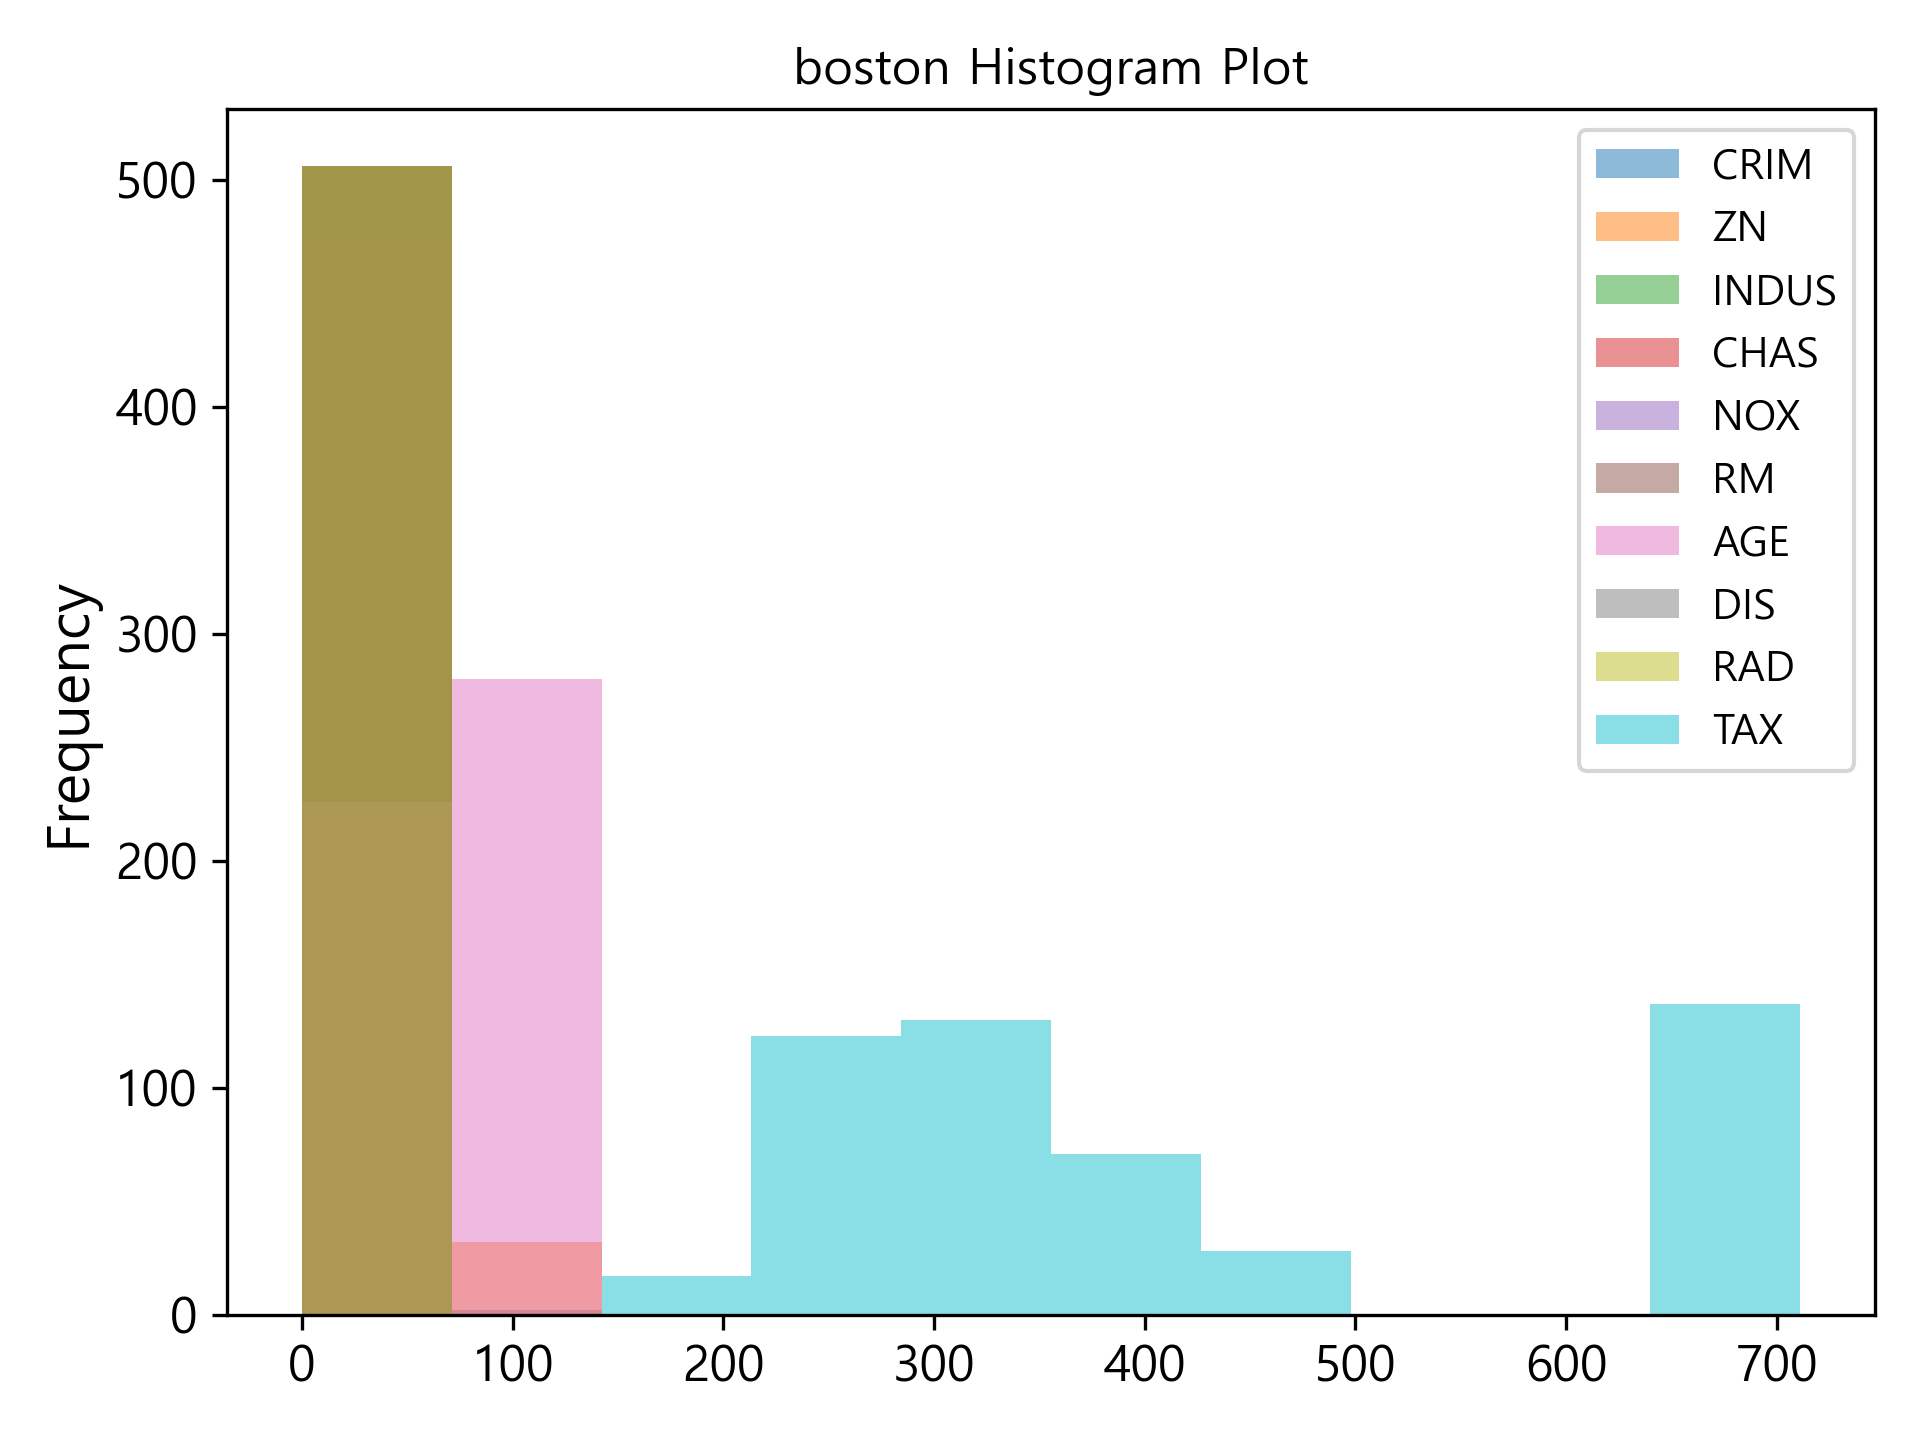
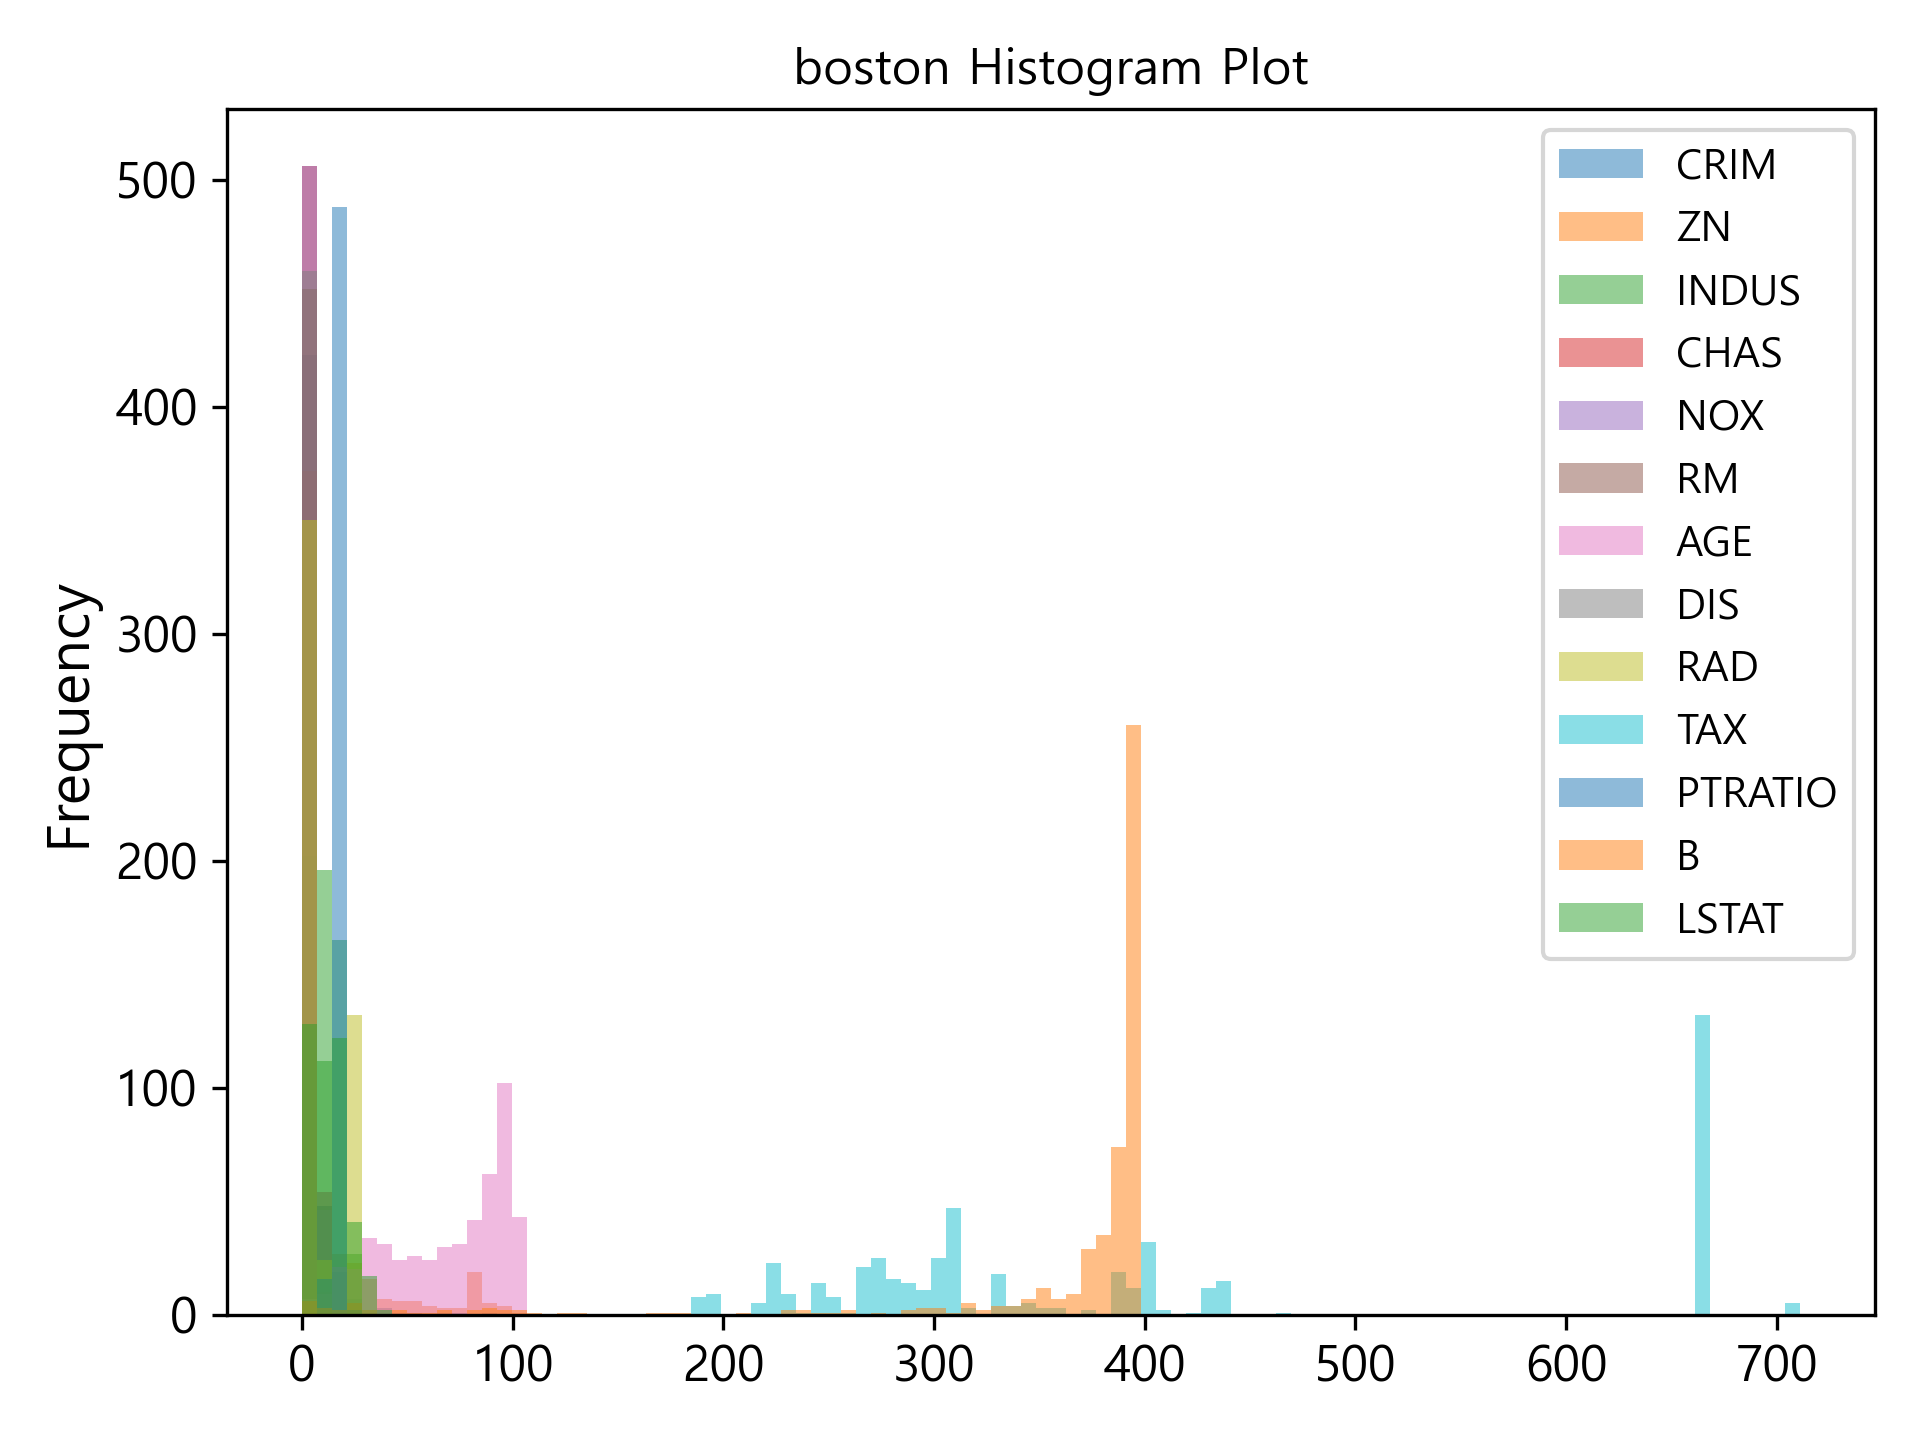
8/11 update

Changed region(s): [[0.1562, 0.0938, 0.7188, 0.9375], [0.8125, 0.0938, 0.9688, 0.6562], [0.8438, 0.6875, 0.9375, 0.9375]]

diff --git a/ch04_0.py b/ch04_0.py
@@ -17,6 +17,7 @@ print("boston.keys(): \n{}".format(boston.keys()))
 print("데이터의 형태: {}".format(boston.data.shape))
 print("특성 이름:\n{}".format(boston.feature_names))
 print(boston.data, boston.target)
+print(boston.target.mean(), boston.target.min(), np.percentile(boston.target,25), np.percentile(boston.target,75), boston.target.max())
 print(boston.data[:,:2])
 
 # 산점도 : 1개의 특성, 1개의 타겟(숫자)
@@ -30,21 +31,49 @@ plt.show()
 
 # 히스토그램 : 열의 이름은 boston.feature_names
 # 사용할 특성의 갯수을 설정
-nCase = 10
+nCase = 13
 boston_df = pd.DataFrame(boston.data[:,:nCase], columns=boston.feature_names[:nCase])
 # 데이터프레임을 사용해  특성별 Historgram
-boston_df.plot.hist(alpha=0.5)
+boston_df.plot.hist(bins=100, alpha=0.5)
 plt.title("boston Histogram Plot")
 image.save_fig("boston_Histogram")
 plt.show() 
+
+#  다른방법으로 pairplot
+import seaborn as sns
+boston_data = pd.DataFrame(boston.data, columns=boston.feature_names)
+boston_data.info()
+print("boston_data 크기: {}".format(boston_data.shape))
+print("boston_data 5개: {}".format(boston_data.head()))
+# target을 세개의 값으로 변경
+y_bin = np.array([0 if i < 17.0 else (1 if i < 25.0 else 2) for i in boston.target])
+boston_target = pd.DataFrame(y_bin, columns=['priceType'])
+boston_target.info()
+print("boston_target 크기: {}".format(boston_target.shape))
+print("boston_target 5개: {}".format(boston_target.head()))
+boston = pd.merge(boston_data, boston_target, left_index=True, right_index=True)
+print("boston 크기: {}".format(boston.shape))
+print("boston 5개: {}".format(boston.head()))
+
+# diag_kind='kde' 를 사용하여 각 변수별 커널밀도추정곡선
+# hue='species'를 사용하여 'species' 종(setosa, versicolor, virginica) 별로 색깔을 다르게 표시
+sns.pairplot(boston, 
+             diag_kind='kde',
+             hue='priceType', 
+             palette='bright') # pastel, bright, deep, muted, colorblind, dark
+image.save_fig("Boston_Scatter_by_seaborn2")     
+plt.show()
+
 
 # 특성 공학feature engineering : load_extended_boston
 # 13개의 원래 특성에 13개에서 2개씩 (중복을 포함해) 짝지은 91개의 특성을 더해 총 104개가 됩니다.
 X, y = mglearn.datasets.load_extended_boston()
 print("X.shape: {}".format(X.shape))
 print("y.shape: {}".format(y.shape))
-print(X, y)
-print(X[:, 0], y)
+print("X 타입: {}".format(type(X)))
+print("y 타입: {}".format(type(y)))
+# print(X, y)
+print(X[:, 0], X[:, 1], y)
 
 # 훈련 세트, 테스트 세트 random_state=66
 from sklearn.model_selection import train_test_split
@@ -53,18 +82,19 @@ print("X_train 크기: {}".format(X_train.shape))
 print("y_train 크기: {}".format(y_train.shape))
 print("X_test 크기: {}".format(X_test.shape))
 print("y_test 크기: {}".format(y_test.shape))
+print("X_train 타입: {}".format(type(X_train)))
+print("y_train 타입: {}".format(type(y_train)))
+print(X_train[:, 0], X_train[:, 1], y_train)
 
 # 산점도 비교 1:전체 2:X_train 3:X_test
 fig, axes = plt.subplots(1, 3, figsize=(15, 6))
 for X, y, title, ax in zip([X, X_train, X_test], [y, y_train, y_test], ['전체','X_train','X_test'], axes):
-  if y > 20.0: 
-    y = 1
-  else:
-    y = 0
-  mglearn.discrete_scatter(X[:, 0], X[:, 1], y, ax=ax)
+  # 산점도를 그립니다. 2개의 특성과 1개의 타켓(2개의 값)
+  y_bin = [0 if i < 20.0 else 1 for i in y]
+  mglearn.discrete_scatter(X[:, 5], X[:, 10], y_bin, ax=ax)
   ax.set_title("{}".format(title))
-  ax.set_xlabel("mean radius")
-  ax.set_ylabel("mean texture")
+  ax.set_xlabel("average number of rooms per dwelling")
+  ax.set_ylabel("TAX")
 
 axes[0].legend(loc=3)
 image.save_fig("boston_scatter_compare")  
@@ -73,19 +103,21 @@ plt.show()
 # X_train 데이터를 사용해서 데이터프레임을 만듭니다.
 # 열의 이름은 range로 표현
 # 사용할 특성의 갯수을 설정
-nCase = 4
-extended_boston_df = pd.DataFrame(X_train[:,:nCase], columns=range(nCase))
+nStart = 20
+nCase = 10
+extended_boston_df = pd.DataFrame(X_train[:,nStart:nStart+nCase], columns=range(nCase))
 # 데이터프레임을 사용해  특성별 Historgram
-extended_boston_df.plot.hist(alpha=0.5)
+extended_boston_df.plot.hist(bins=100, alpha=0.5)
 plt.title("extended_boston Histogram Plot")
 image.save_fig("extended_boston_Histogram")
 plt.show() 
 
 # 데이터프레임을 사용해 y_train에 따라 색으로 구분된 산점도 행렬을 만듭니다.
+y_bin = [0 if i < 20.0 else 1 for i in y_train]
 if nCase <= 10:
-    pd.plotting.scatter_matrix(extended_boston_df, c=y_train, figsize=(15, 15), marker='o',
-    hist_kwds={'bins': 20}, s=2, alpha=.8, cmap=mglearn.cm3)
-    plt.title("extended_boston Scatter Plot")
-    image.save_fig("extended_boston_Scatter")  
-    plt.show()
+  pd.plotting.scatter_matrix(extended_boston_df, c=y_bin, figsize=(15, 15), marker='o',
+  hist_kwds={'bins': 20}, s=2, alpha=.8, cmap=mglearn.cm3)
+  #plt.title("extended_boston Scatter Plot")
+  image.save_fig("extended_boston_Scatter")  
+  plt.show()
 

diff --git a/ch04_1.py b/ch04_1.py
@@ -17,20 +17,16 @@ print("데이터의 형태: {}".format(boston.data.shape))
 print("특성 이름:\n{}".format(boston.feature_names))
 print(boston.data, boston.target)
 print(boston.data[:,:2])
+print("boston.data 타입: {}".format(type(boston.data)))
+print("boston.target 타입: {}".format(type(boston.target)))
 
-
-# 특성 공학feature engineering : load_extended_boston
-# 13개의 원래 특성에 13개에서 2개씩 (중복을 포함해) 짝지은 91개의 특성을 더해 총 104개가 됩니다.
-# X, y : numpy ndarray
-X, y = mglearn.datasets.load_extended_boston()
-print("X.shape: {}".format(X.shape))
-print("y.shape: {}".format(y.shape))
-#print("특성 이름:\n{}".format(X.column_names))
-print(X, y)
-
+# target을 두개의 값으로 변경
+y_bin = np.array([0 if i < 20.0 else 1 for i in boston.target])
 # 훈련 세트, 테스트 세트 random_state=66
 from sklearn.model_selection import train_test_split
-X_train, X_test, y_train, y_test = train_test_split(X, y, random_state=66)
+X_train, X_test, y_train, y_test = train_test_split(boston.data, y_bin, random_state=66)
+print("X_train 타입: {}".format(type(X_train)))
+print("y_train 타입: {}".format(type(y_train)))
 print("X_train 크기: {}".format(X_train.shape))
 print("y_train 크기: {}".format(y_train.shape))
 print("X_test 크기: {}".format(X_test.shape))
@@ -55,9 +51,9 @@ fig, axes = plt.subplots(1, 3, figsize=(10, 3))
 for n_neighbors, ax in zip([1, 3, 9], axes):
     # fit 메서드는 self 객체를 반환합니다.
     # 그래서 객체 생성과 fit 메서드를 한 줄에 쓸 수 있습니다.
-    clf = KNeighborsClassifier(n_neighbors=n_neighbors).fit(X, y)
-    mglearn.plots.plot_2d_separator(clf, X[:,:2], fill=True, eps=0.5, ax=ax, alpha=.4)
-    mglearn.discrete_scatter(X[:, 0], X[:, 1], y, ax=ax)
+    clf = KNeighborsClassifier(n_neighbors=n_neighbors).fit(X_train[:,:2], y_train)
+    mglearn.plots.plot_2d_separator(clf, X_train[:,:2], fill=True, eps=0.5, ax=ax, alpha=.4)
+    mglearn.discrete_scatter(X_train[:, 0], X_train[:, 1], y_train, ax=ax)
     ax.set_title("{} 이웃".format(n_neighbors))
     ax.set_xlabel("특성 0")
     ax.set_ylabel("특성 1")

diff --git a/ch01_1.py b/ch01_1.py
@@ -70,6 +70,7 @@ print("테스트 세트의 정확도: {:.2f}".format(clf.score(X_test, y_test)))
 fig, axes = plt.subplots(1, 3, figsize=(10, 3))
 for n_neighbors, ax in zip([1, 3, 9], axes):
     # fit 메서드는 self 객체를 반환 객체 생성과 fit 메서드를 한 줄에 
+    # plot_2d_separator 에서 그릴 X_train 갯수만큼만 fit 
     clf = KNeighborsClassifier(n_neighbors=n_neighbors).fit(X_train[:,:2], y_train)
     mglearn.plots.plot_2d_separator(clf, X_train[:,:2], fill=True, eps=0.5, ax=ax, alpha=.4)
     mglearn.discrete_scatter(X_train[:, 0], X_train[:, 1], y_train, ax=ax)

diff --git a/ch02_0.py b/ch02_0.py
@@ -11,6 +11,7 @@ X, y = mglearn.datasets.make_forge()
 print("X.shape: {}".format(X.shape))
 print("y.shape: {}".format(y.shape))
 print("X 타입: {}".format(type(X)))
+print("y 타입: {}".format(type(y)))
 print(X[:, 0], X[:, 1], y)
 
 # 산점도를 그립니다. 2개의 특성과 1개의 타켓(2개의 값)
